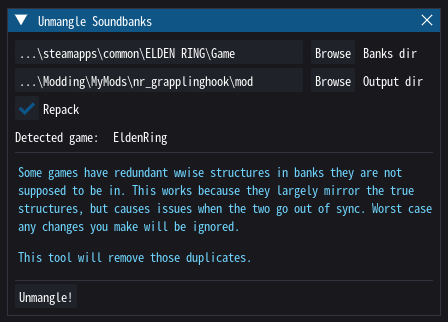
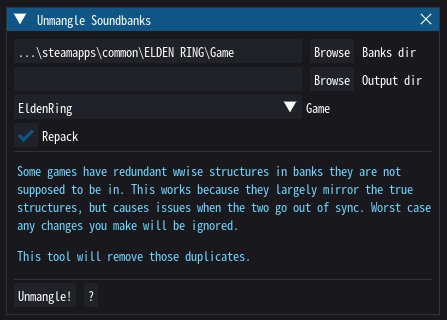
- Added doc page for replace music tool - Special case for deleting events to include related play/stop events - Added play-post-exit/play-pre-entry to transition rule editor - Moved find-related-nodes to soundbank - Small improvements

diff --git a/yonder/gui/yonder.py b/yonder/gui/yonder.py
@@ -13,7 +13,7 @@ import networkx as nx
 import shutil
 from dearpygui import dearpygui as dpg
 
-from yonder import Soundbank, HIRCNode, Game, lookup_name
+from yonder import Soundbank, HIRCNode, Game
 from yonder.types import (
     Action,
     ActorMixer,
@@ -142,7 +142,7 @@ class BanksOfYonder(DpgItem):
                 lookup_table.save()
 
     def _handle_exception(
-        self, exc_type: Type[Exception], exc_value: Exception, exc_traceback
+        self, exc_type: type[Exception], exc_value: Exception, exc_traceback
     ) -> None:
         if issubclass(exc_type, KeyboardInterrupt):
             dpg.stop_dearpygui()
@@ -228,6 +228,7 @@ class BanksOfYonder(DpgItem):
                 )
 
             dpg.add_separator()
+
             with dpg.menu(label=µ("Bank", "menu"), tag=self._t("menu/bank")):
                 dpg.add_menu_item(
                     label=µ("Rename"),
@@ -244,15 +245,6 @@ class BanksOfYonder(DpgItem):
                     callback=self._bank_solve_hirc,
                     tag=self._t("menu/solve_hirc"),
                 )
-
-                dpg.add_separator()
-                with dpg.menu(label=µ("Game", "menu")):
-                    dpg.add_radio_button(
-                        [g.name for g in Game],
-                        default_value=Game.EldenRing.name,
-                        callback=lambda s, a, u: set_game(Game[a]),
-                        tag=self._t("menu/selected_game"),
-                    )
 
                 dpg.add_separator()
 
@@ -354,6 +346,14 @@ class BanksOfYonder(DpgItem):
                 )
 
                 dpg.add_separator()
+
+                with dpg.menu(label=µ("Presets", "menu")):
+                    dpg.add_radio_button(
+                        [g.name for g in Game],
+                        default_value=Game.EldenRing.name,
+                        callback=lambda s, a, u: set_game(Game[a]),
+                        tag=self._t("menu/selected_game"),
+                    )
 
                 with dpg.menu(
                     label=µ("Language", "menu"),
@@ -2036,34 +2036,42 @@ class BanksOfYonder(DpgItem):
         )
         self.regenerate()
 
-    # TODO
-    def _delete_node(self, node: HIRCNode, cascade: bool) -> None:
-        def on_event_delete_choice(sender: str, choice: int, user_data: Any) -> None:
+    def _do_delete_node(self, node: HIRCNode, cascade: bool) -> None:
+        def do_delete(nodes: list[HIRCNode]):
+            if cascade:
+                for n in nodes:
+                    self.bnk.delete_subtree(n)
+            else:
+                # Deleting all in one will be faster
+                self.bnk.delete_nodes(*nodes)
+
+        def on_delete_related_choice(sender: str, choice: int, related: list[Event]) -> None:
             if choice == 0:
-                pass
+                do_delete([node])
 
             elif choice == 1:
-                pass
+                do_delete([node] + related)
 
         if isinstance(node, Event):
-            # TODO get related events
-            if node.has_action_type(
-                self.bnk, ActionType.Play, ActionType.PlayAndContinue
-            ):
-                pass
-
+            related_events = self.bnk.find_related_events(node)
+            
+            if related_events:
                 simple_choice_dialog(
                     µ("Delete related play/stop events?"),
                     [µ("Yes"), µ("No")],
-                    on_event_delete_choice,
+                    on_delete_related_choice,
+                    user_data=related_events,
                 )
+                return
+
+        do_delete(node)
 
     def node_delete(self) -> None:
         if not self._selected_node:
             return
 
         parent = self.bnk.get_parent(self._selected_node)
-        self.bnk.delete_nodes(self._selected_node)
+        self._do_delete_node(self._selected_node, False)
         logger.info(µ("Deleted {node}", "log").format(node=self._selected_node))
 
         self._on_node_selected(None, True, parent)
@@ -2075,7 +2083,7 @@ class BanksOfYonder(DpgItem):
 
         with loading_indicator(µ("Working...")):
             parent = self.bnk.get_parent(self._selected_node)
-            self.bnk.delete_subtree(self._selected_node)
+            self._do_delete_node(self._selected_node, True)
 
         logger.info(
             µ("Deleted {node} and exclusive children").format(node=self._selected_node)

diff --git a/yonder/gui/dialogs/edit_transition_dialog.py b/yonder/gui/dialogs/edit_transition_dialog.py
@@ -9,7 +9,7 @@ from yonder.util import deepmerge
 from yonder.gui import style
 from yonder.gui.localization import µ
 from yonder.gui.helpers import dpg_section
-from yonder.gui.widgets import DpgItem
+from yonder.gui.widgets import DpgItem, add_select_node
 
 
 # https://www.audiokinetic.com/en/public-library/2025.1.8_9170/?source=Help&id=transitions_tab_music_objects
@@ -82,7 +82,7 @@ class edit_transition_dialog(DpgItem):
 
         for node_id in getattr(self._rule, rule_key):
             self._add_id_row(table, node_id, rule_key)
-        
+
         self._add_id_footer(table, rule_key)
         dpg.configure_item(
             table, height=min(150, 30 + len(getattr(self._rule, rule_key)) * 30)
@@ -98,9 +98,7 @@ class edit_transition_dialog(DpgItem):
             )
 
     def _add_id_footer(self, table: str, rule_key: str) -> None:
-        missing = sorted(
-            set(self._targets).difference(getattr(self._rule, rule_key))
-        )
+        missing = sorted(set(self._targets).difference(getattr(self._rule, rule_key)))
         if not missing:
             return
 
@@ -183,7 +181,15 @@ class edit_transition_dialog(DpgItem):
                 ),
                 tag=self._t("edit_transition/src_fade_curve"),
             )
-            
+            dpg.add_checkbox(
+                label=µ("Play post-exit"),
+                default_value=bool(src.play_post_exit),
+                callback=lambda s, a, u: setattr(
+                    self._src_rule, "play_post_exit", bool(a)
+                ),
+                tag=self._t("edit_transition/src_play_post_exit"),
+            )
+
             if lock_sync_type:
                 sync_type = f"{src.sync_type.name} (locked)"
             else:
@@ -236,6 +242,16 @@ class edit_transition_dialog(DpgItem):
                 ),
                 tag=self._t("edit_transition/dst_fade_curve"),
             )
+            dpg.add_checkbox(
+                label=µ("Play pre-entry"),
+                default_value=dst.play_pre_entry,
+                callback=lambda s, a, u: setattr(
+                    self._dst_rule, "play_pre_entry", bool(a)
+                ),
+                tag=self._t("edit_transition/dst_play_pre_entry"),
+            )
+
+            # TODO music transition piece
 
             dpg_section(
                 "Affected nodes",

diff --git a/yonder/gui/panels/hirc_player_panel.py b/yonder/gui/panels/hirc_player_panel.py
@@ -4,6 +4,7 @@ from bisect import bisect
 from threading import Thread
 import socket
 import json
+import re
 from dearpygui import dearpygui as dpg
 
 from yonder import lookup_name, calc_hash, HIRCNode
@@ -65,12 +66,12 @@ class add_hirc_player_panel(DpgItem):
             with dpg.group():
                 dpg.add_checkbox(
                     label=µ("Play full hierarchy"),
-                    default_value=True,
+                    default_value=False,
                     callback=self._on_player_settings_changed,
                     tag=self._t("player_full_hierarchy"),
                 )
                 with dpg.tooltip(dpg.last_item()):
-                    dpg.add_text(µ("Cascade from root instead of selected node"))
+                    dpg.add_text(µ("Cascade from the root instead of selected node"))
 
                 dpg.add_checkbox(
                     label=µ("Apply AMX hierarchy"),
@@ -478,15 +479,20 @@ class add_hirc_player_panel(DpgItem):
                         time.sleep(0.1)
                     else:
                         break
-                except TimeoutError:
+                except Exception as e:
                     if self._contiunous_sync:
+                        time.sleep(0.1)
                         continue
                     else:
                         # Don't show the message if we were already supposed to stop
                         if self._is_synchronizing:
+                            status = type(e).__name__
+                            status = status.removesuffix("Error").removesuffix("Exception")
+                            status = re.sub(r"([A-Z]+)", r" \1", status).lower()
+
                             dpg.configure_item(
                                 self._t("sync_status"),
-                                default_value="timeout",
+                                default_value=status,
                                 show=True,
                             )
 

diff --git a/yonder/gui/dialogs/mass_transfer_dialog.py b/yonder/gui/dialogs/mass_transfer_dialog.py
@@ -126,39 +126,10 @@ class mass_transfer_dialog(DpgItem):
         dst_labels += [""] * (num - len(dst_labels))
 
         for nid in src_ids:
-            obj = self._src_bnk.get(nid)
-            target_id = None
+            related_events = self._src_bnk.find_related_events(nid)
 
-            if isinstance(obj, Event):
-                for action in obj.get_action_nodes(self._src_bnk):
-                    if action.action_type_enum in (
-                        ActionType.Play,
-                        ActionType.StopEO,
-                        ActionType.StopE,
-                    ):
-                        target_id = action.external_id
-                        break
-                else:
-                    continue
-            else:
-                target_id = obj.id
-
-            for evt in self._src_bnk.find_events_for(target_id):
-                play_actions = evt.get_action_nodes(self._src_bnk, ActionType.Play)
-
-                if play_actions:
-                    for pa in play_actions:
-                        if pa.external_id == target_id:
-                            # Explicitly plays our target_id, should be included
-                            break
-                    else:
-                        if evt.has_action_type(
-                            self._src_bnk, ActionType.StopEO, ActionType.StopE
-                        ):
-                            # Has a play action targeting a different node, don't include it
-                            continue
-
-                if evt.id not in src_ids:
+            for evt in related_events:
+                if evt not in src_ids:
                     name = evt.get_name()
                     src_labels.append(name)
                     dst_labels.append(name)

diff --git a/yonder/types/soundbank.py b/yonder/types/soundbank.py
@@ -663,6 +663,49 @@ class Soundbank:
             if node.id in nx.descendants(g, evt.id):
                 yield evt
 
+    def find_related_events(
+        self,
+        node: HIRCNode | int,
+        action_types: ActionType | tuple[ActionType] = (
+            ActionType.Play,
+            ActionType.StopEO,
+            ActionType.StopE,
+        ),
+    ) -> list[Event]:
+        if not isinstance(node, HIRCNode):
+            node = self[node]
+
+        if isinstance(node, Event):
+            for action in node.get_action_nodes(self):
+                if action.action_type_enum in action_types:
+                    target_id = action.external_id
+                    break
+            else:
+                return []
+        else:
+            target_id = node.id
+
+        related = []
+
+        for evt in self._src_bnk.find_events_for(target_id):
+            play_actions = evt.get_action_nodes(self, ActionType.Play)
+
+            if play_actions:
+                for pa in play_actions:
+                    if pa.external_id == target_id:
+                        # Explicitly plays our target_id, should be included
+                        break
+                else:
+                    if evt.has_action_type(
+                        self, ActionType.StopEO, ActionType.StopE
+                    ):
+                        # Has a play action targeting a different node, don't include it
+                        continue
+
+                related.append(evt)
+        
+        return related
+
     def solve(self) -> None:
         from yonder.types import Action, Event
 

diff --git a/yonder/gui/dialogs/about_dialog.py b/yonder/gui/dialogs/about_dialog.py
@@ -57,7 +57,7 @@ class about_dialog(DpgItem):
                         color=style.light_grey,
                     )
                     dpg.add_text(
-                        "Vswarte, Raster, Shion, Kidius, \nDasaav, LittleBear, Shiki",
+                        "Vswarte, Raster, Shion, Kidius, \nDasaav, LittleBear, Shiki, ...",
                         indent=10,
                         color=style.light_grey,
                     )

diff --git a/yonder/types/hirc_node.py b/yonder/types/hirc_node.py
@@ -228,6 +228,10 @@ class HIRCNode(DataNode):
         """
         return pyo.Sig(0)
 
+    def is_playing(self) -> bool:
+        my_pyo = self.pyo_state()
+        return my_pyo and my_pyo.playing
+
     def play(self, ctx: PlayContext) -> None:
         """Initialize this node's audio backend and start playback.
 

diff --git a/docs/guides/locating_sounds.md b/docs/guides/locating_sounds.md
@@ -1,6 +1,6 @@
 # Locating Sounds
 
-Locating sounds can be tough if you don't know what you're looking for. As described on the [events page](../wwise/events.md), the game constructs short strings that are hashed and sent to Wwise, triggering various actions. These strings can be anything, but usually follow the pattern `Play_<type><number>`, where `<type>` is a Fromsoft-defined category (e.g. `c` for character, `s` for sfx, etc., see [sound types](../wwise/events.md#sound-types)), and `<number` is an arbitrary 9-digit number padded with 0s. This number often includes e.g. the character's ID in the beginning, but this is by no means required.
+Locating sounds can be tough if you don't know what you're looking for. As described on the [events page](../wwise/events.md), the game constructs short strings that are hashed and sent to Wwise, triggering various actions. These strings can be anything, but usually follow the pattern `Play_<type><number>`, where `<type>` is a Fromsoft-defined category (e.g. `c` for character, `s` for sfx, etc., see [sound types](../wwise/events.md#sound-types)), and `<number` is an arbitrary 9-digit number padded with 0s. This number often includes e.g. the character's ID in the beginning, but this is by no means required. It has no relation whatsoever to the sound's filename.
 
 !!! bug
 

diff --git a/docs/tools/replace_music.md b/docs/tools/replace_music.md
@@ -1,1 +1,9 @@
 # Replacing Music
+
+![](../assets/images/tool_replace_music.png)
+
+This tool allows you to easily replace certain music tracks. As described in [various](../guides/working_with_music.md) [places](../wwise/soundbanks.md), in Fromsoft games, music is typically stored in the `cs_smain` soundbank. Simply open it and go ham!
+
+!!! warning
+
+    Note that some songs are used in multiple places. By default, this tool will replace all instances, but this can be toggled from the options.

diff --git a/todo.md b/todo.md
@@ -2,8 +2,7 @@
 - equalizer bars
 - msc branches need to be merged/split when editing their path
 - msc tree edits only need to rebuild msc widgets, no need to regenerate everything
-- transition rules missing play pre-entry/post-exit/transition piece
-- special delete case for events
+- transition rules missing transition piece
 - doc homepage: title picture
 - sound builder: + layers
 - overhaul segment and music track node widgets
